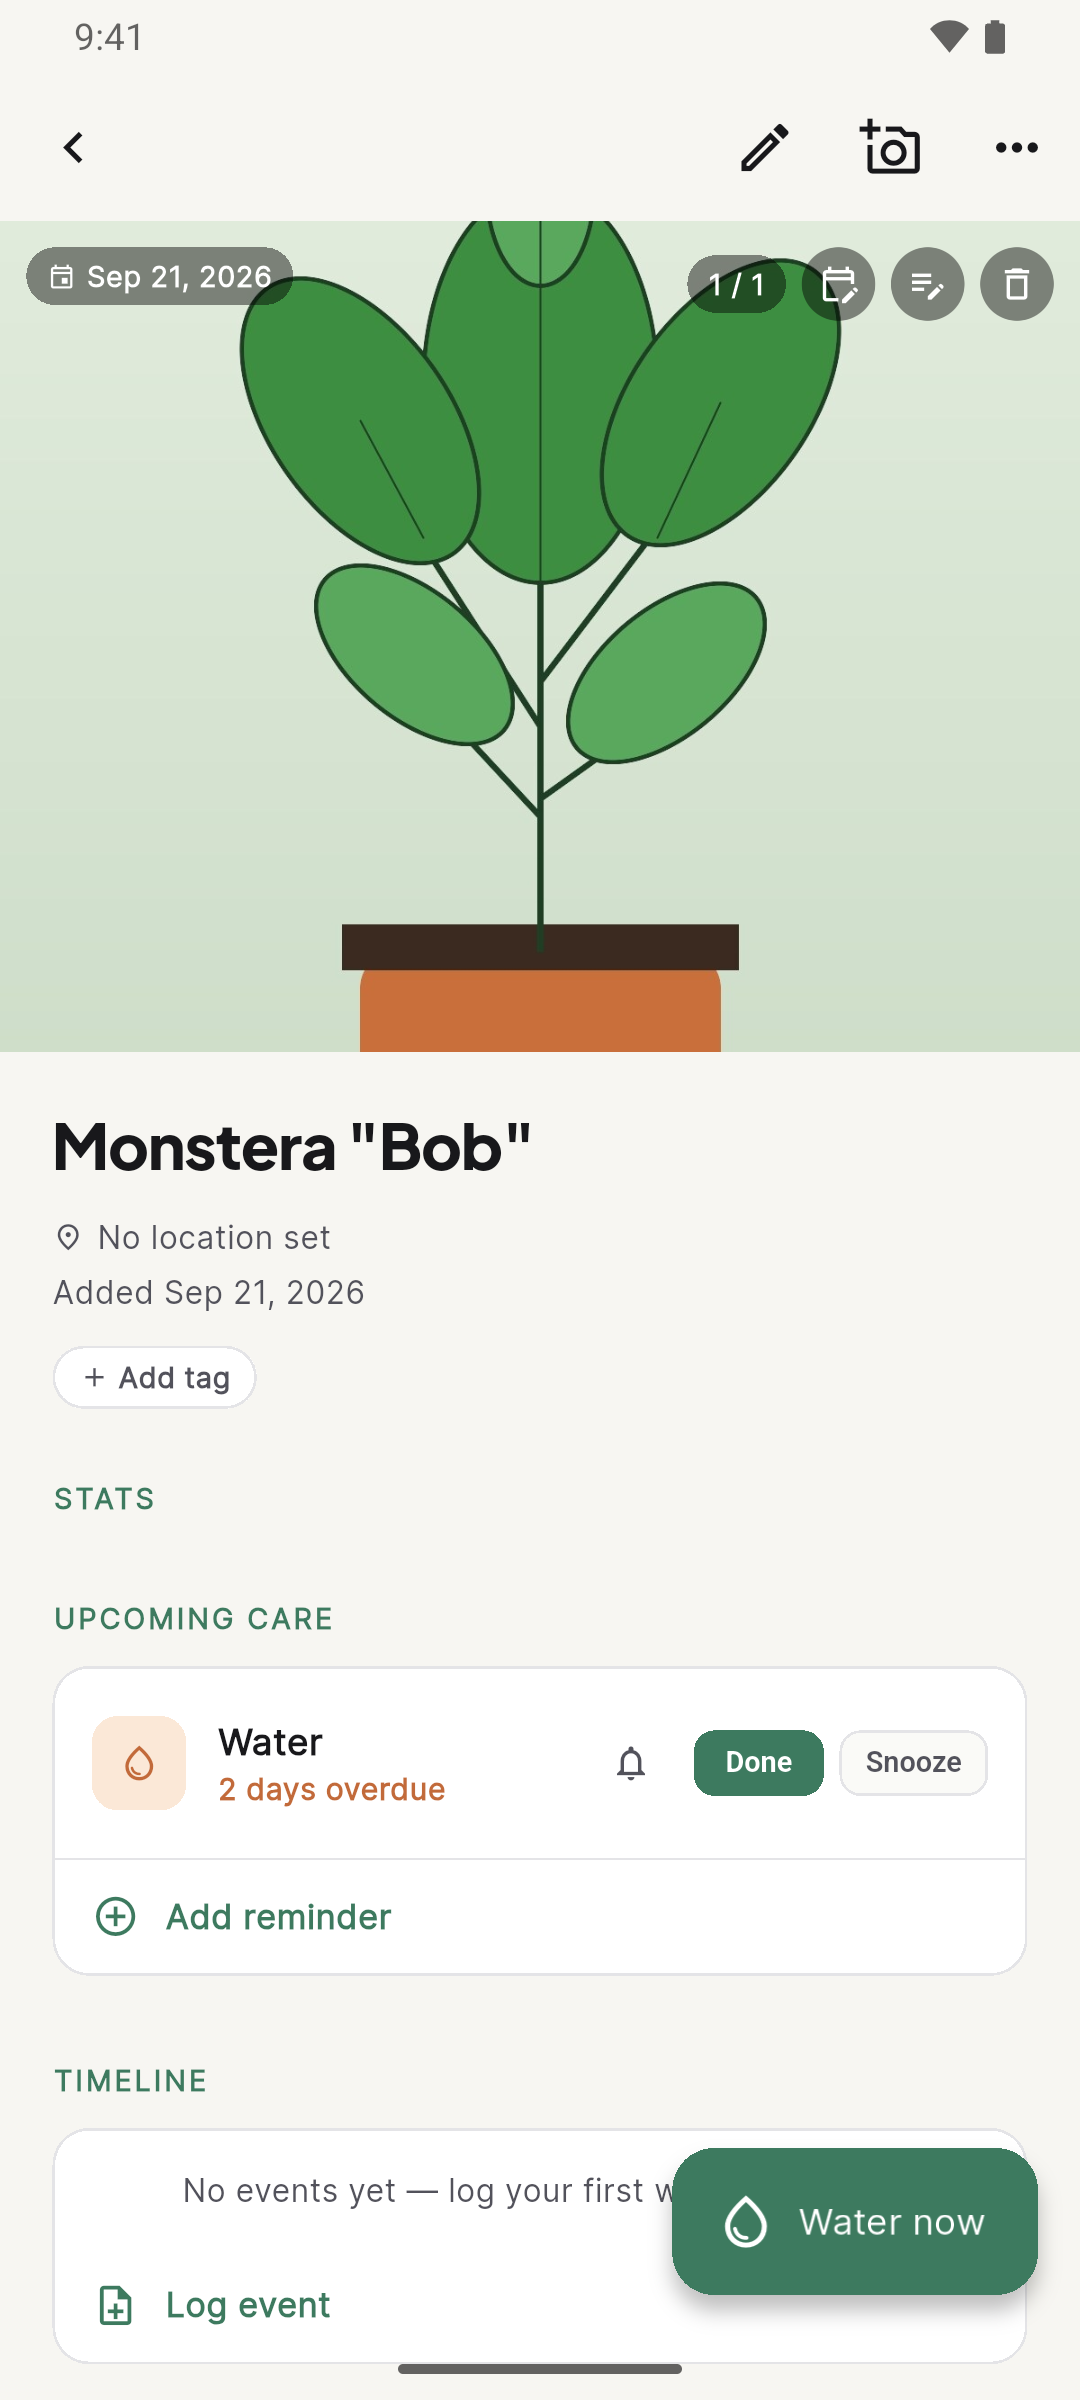
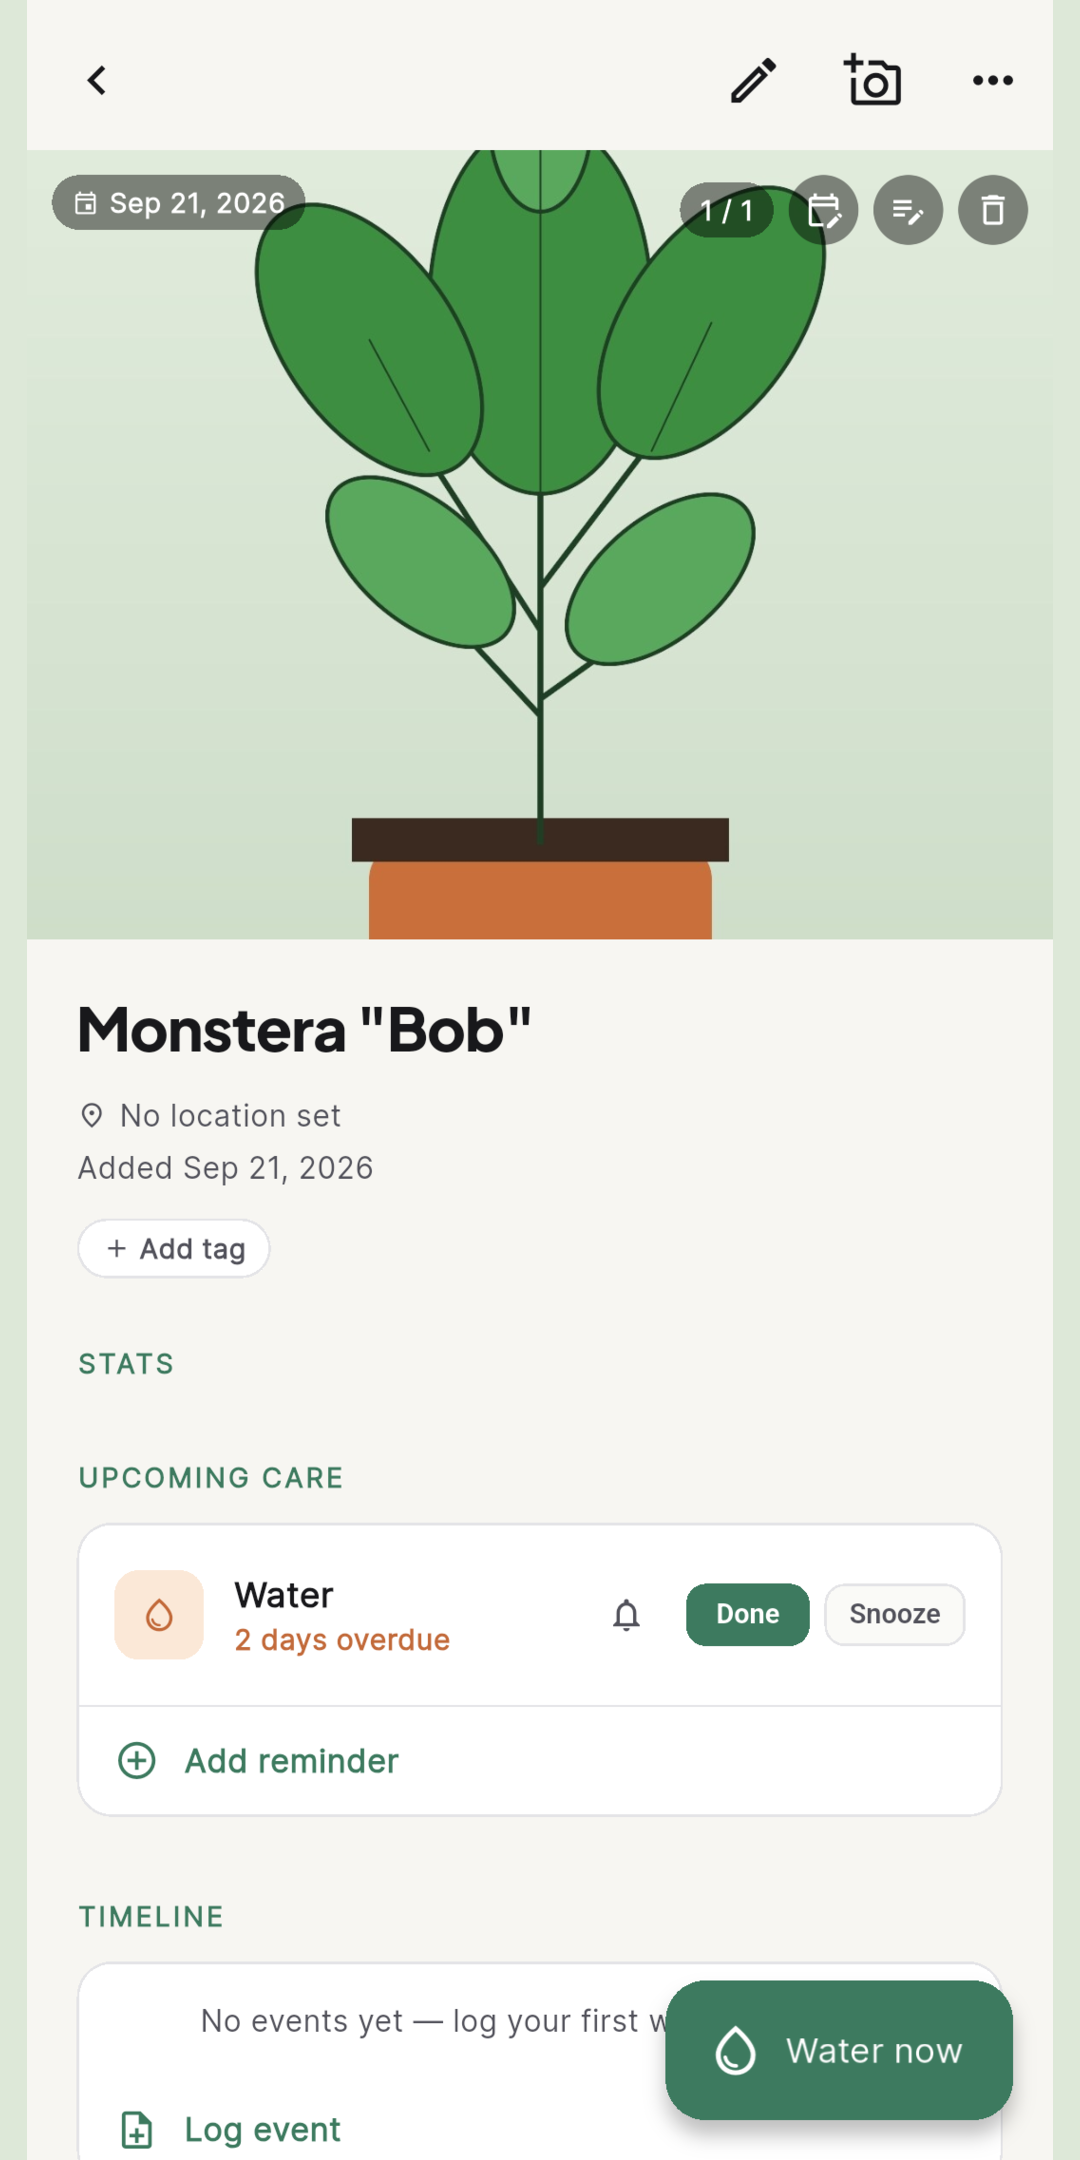
chore(store): fit screenshots to Play's 2:1 aspect limit
Raw Pixel 8 captures are 1080×2400 (2.22:1) and fail the listing
validator / Play upload. Crop the 63 px status and gesture bars, scale
uniformly to 2160 tall and pad the 27 px sides with the page background —
no UI is cut.

diff --git a/android/fastlane/README.md b/android/fastlane/README.md
@@ -15,7 +15,7 @@ metadata/android/<locale>/
   images/
     icon.png                 # 512×512 (hi-res icon)
     featureGraphic.png       # 1024×500
-    phoneScreenshots/1..5    # 1080×2400 raw device captures (Pixel 8 emulator, API 35)
+    phoneScreenshots/1..5    # 1080×2160 device captures (Pixel 8 emulator, API 35; status/gesture bars cropped, scaled to Play’s 2:1 limit)
 ```
 
 ## What is automated (GitLab CI)
